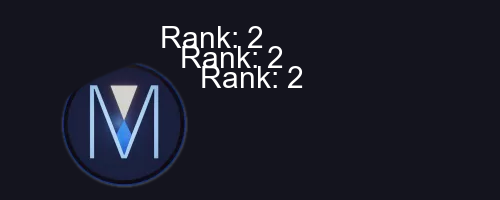
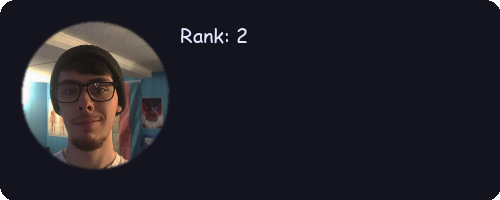
Rank cards format properly with size and font changed to comic sans because it is superior

diff --git a/imaging.py b/imaging.py
@@ -1,3 +1,4 @@
+import PIL.Image
 from PIL import Image, ImageDraw, ImageFilter, ImageFont
 import requests
 """
@@ -17,15 +18,32 @@ def mask_circle_solid(pil_img, background_color, blur_radius, offset=0): # From 
     draw = ImageDraw.Draw(mask)
     draw.ellipse((offset, offset, pil_img.size[0] - offset, pil_img.size[1] - offset), fill=255)
     mask = mask.filter(ImageFilter.GaussianBlur(blur_radius))
-
     return Image.composite(pil_img, background, mask)
+
+def add_corners(self, im, rad=100):
+    circle = Image.new('L', (rad * 2, rad * 2), 0)
+    draw = ImageDraw.Draw(circle)
+    draw.ellipse((0, 0, rad * 2, rad * 2), fill=255)
+    alpha = Image.new('L', im.size, "white")
+    w, h = im.size
+    alpha.paste(circle.crop((0, 0, rad, rad)), (0, 0))
+    alpha.paste(circle.crop((0, rad, rad, rad * 2)), (0, h - rad))
+    alpha.paste(circle.crop((rad, 0, rad * 2, rad)), (w - rad, 0))
+    alpha.paste(circle.crop((rad, rad, rad * 2, rad * 2)), (w - rad, h - rad))
+    im.putalpha(alpha)
+    return im
+
 def makeRankCard(profile_url,rank):
     with requests.get(profile_url) as r:
         img_data = r.content
+    with open('card.png', 'wb') as img:
+        img.write(img_data)
     profilePic = Image.open("card.png")
+    profilePic = profilePic.resize((150,150),PIL.Image.NEAREST)
     #profilePic.show()
 
     card = Image.new(mode="RGB",size=(500,200),color=bg_colour)
+    card = add_corners(card,card,rad=15)
     #card.show()
     profilePic = mask_circle_solid(profilePic, bg_colour, 1)
 
@@ -33,7 +51,10 @@ def makeRankCard(profile_url,rank):
     #card.show()
 
     drawn = ImageDraw.Draw(card)
-    font = font = ImageFont.truetype("./arial.ttf", 30)
-    drawn.text((160, 20),"Rank: "+str(rank),(255,255,255),font=font)
+    font = ImageFont.truetype("./comic.ttf", 20)
+    drawn.text((180, 20),"Rank: "+str(rank),(230,230,255),font=font)
     #card.show()
     card.save("card.png")
+
+if __name__ == '__main__':
+    makeRankCard("https://cdn.discordapp.com/avatars/258284765776576512/72490d3f18dafda1528ad68fa421d1dc.webp?size=128",3)

diff --git a/bot.py b/bot.py
@@ -320,7 +320,9 @@ class MyClient(discord.Client):
 			embed_rank = discord.Embed()
 			file = discord.File("card.png")
 			embed_rank.set_image(url="attachment://card.png")
-			await message.channel.send(file=file,embed=embed_rank)
+			await message.channel.send(file=file)
+			#await message.channel.send(file=file,embed=embed_rank)
+
 
 		# Joke functionality: Shut up Arun
 		if message.author.id == 258284765776576512:
